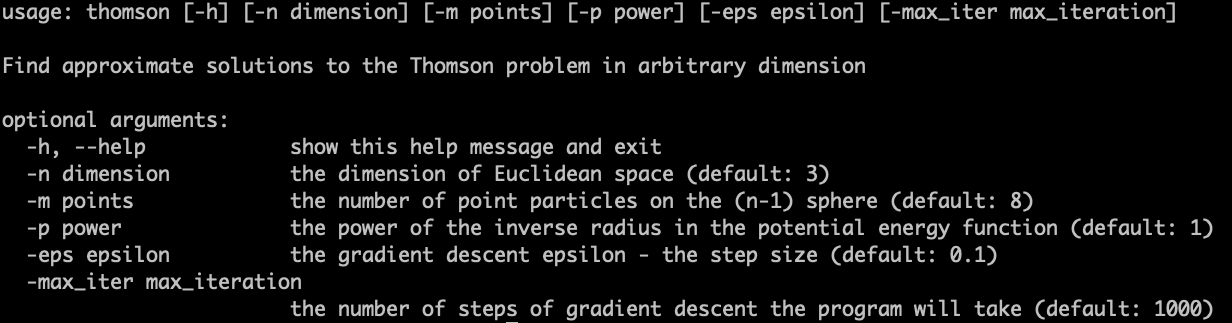
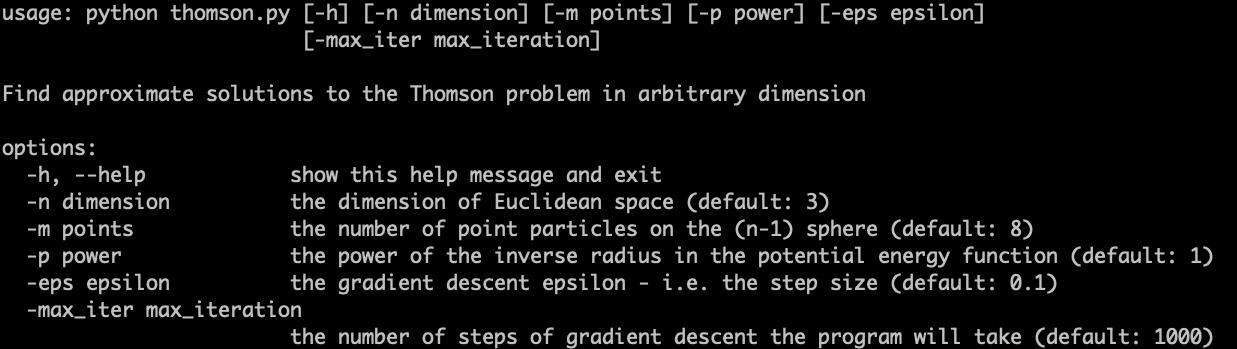
Rename file

Changed region(s): [[0.0, 0.3406, 0.987, 1.0], [0.0, 0.1858, 0.7094, 0.3096], [0.0, 0.0, 0.9562, 0.1548]]

diff --git a/thomson.py b/thomson.py
@@ -1,4 +1,3 @@
-import sys
 import argparse
 import logging
 
@@ -19,7 +18,7 @@ logging.basicConfig(
 
 # Define the parser used to process the command line input and then add a bunch of arguments
 parser = argparse.ArgumentParser(
-            prog='python thomson_problem.py',
+            prog='python thomson.py',
             description='Find approximate solutions to the Thomson problem in arbitrary dimension',
             allow_abbrev=False
         )
@@ -58,7 +57,7 @@ parser.add_argument(
             type=float,
             required=False,
             default=0.1,
-            help='the gradient descent epsilon - the step size (default: 0.1)'
+            help='the gradient descent epsilon - i.e. the step size (default: 0.1)'
         )
 
 
@@ -89,10 +88,8 @@ def generate_random_vector_of_unit_norm(n):
 
     return x
 
-def calculate_total_energy(array, p=1):
-    n = len(array[0])
-    m = len(array)
 
+def calculate_total_energy(array, p=1):
     energy = 0
     dm = distance_matrix(array, array)
 
@@ -102,6 +99,8 @@ def calculate_total_energy(array, p=1):
 
     # This is equivalent to the calculation above, not
     # sure which is faster or whether it matters
+    # n = len(array[0])
+    # m = len(array)
     # for i in range(m):
     #     for j in range(i+1,m):
     #         energy += 1.0/dm[i, j]

diff --git a/readme.md b/readme.md
@@ -11,7 +11,9 @@ If you are only interested in using this, please see the next section. There is 
 ## Getting started
 
 ### Requirements
+
 You will need a working install of Python (preferably Python 3), and basic knowledge of the command line.
+
 
 ### Create a virtual environment
 
@@ -25,7 +27,9 @@ You can skip directly to step 4 if you are ok with installing the necessary pack
 
 4. Install the requirements: `pip install -r requirements.txt`
 
+
 ### Running the program
+
 **Example**: `python thomson_problem.py -n 3 -m 10 -eps 0.1`
 
 Run `python thomson_problem.py -h` to display the following help screen:
